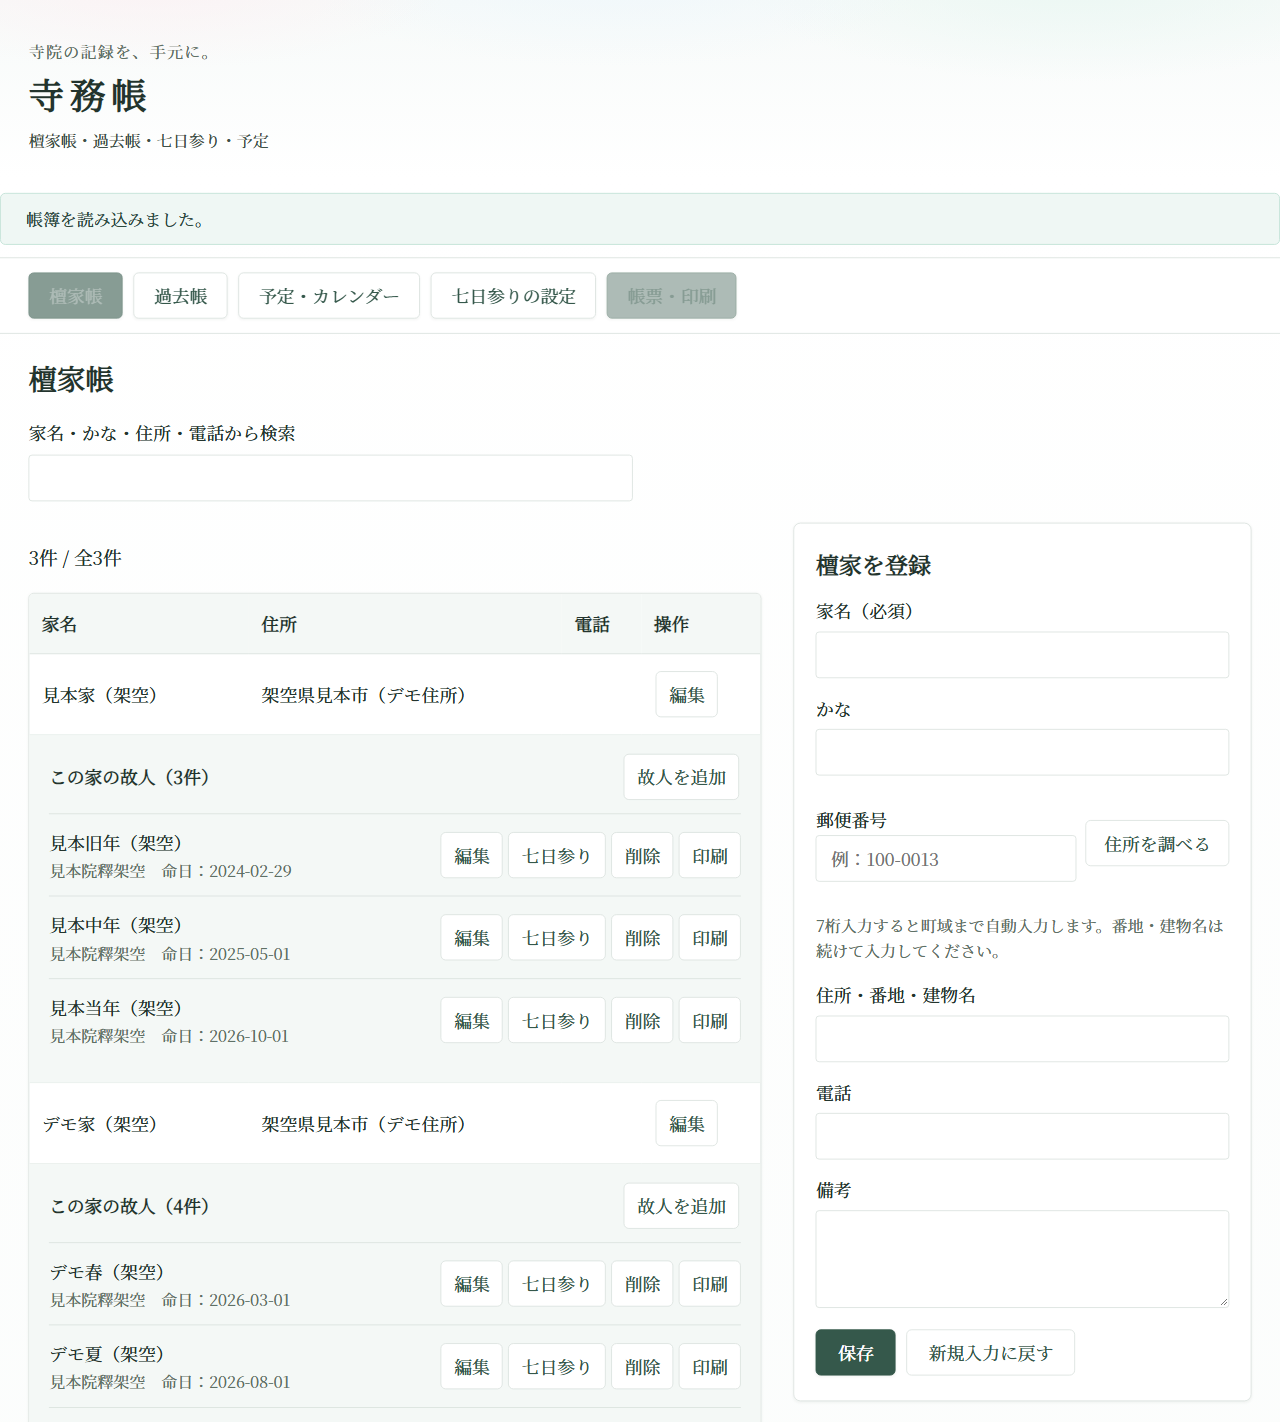
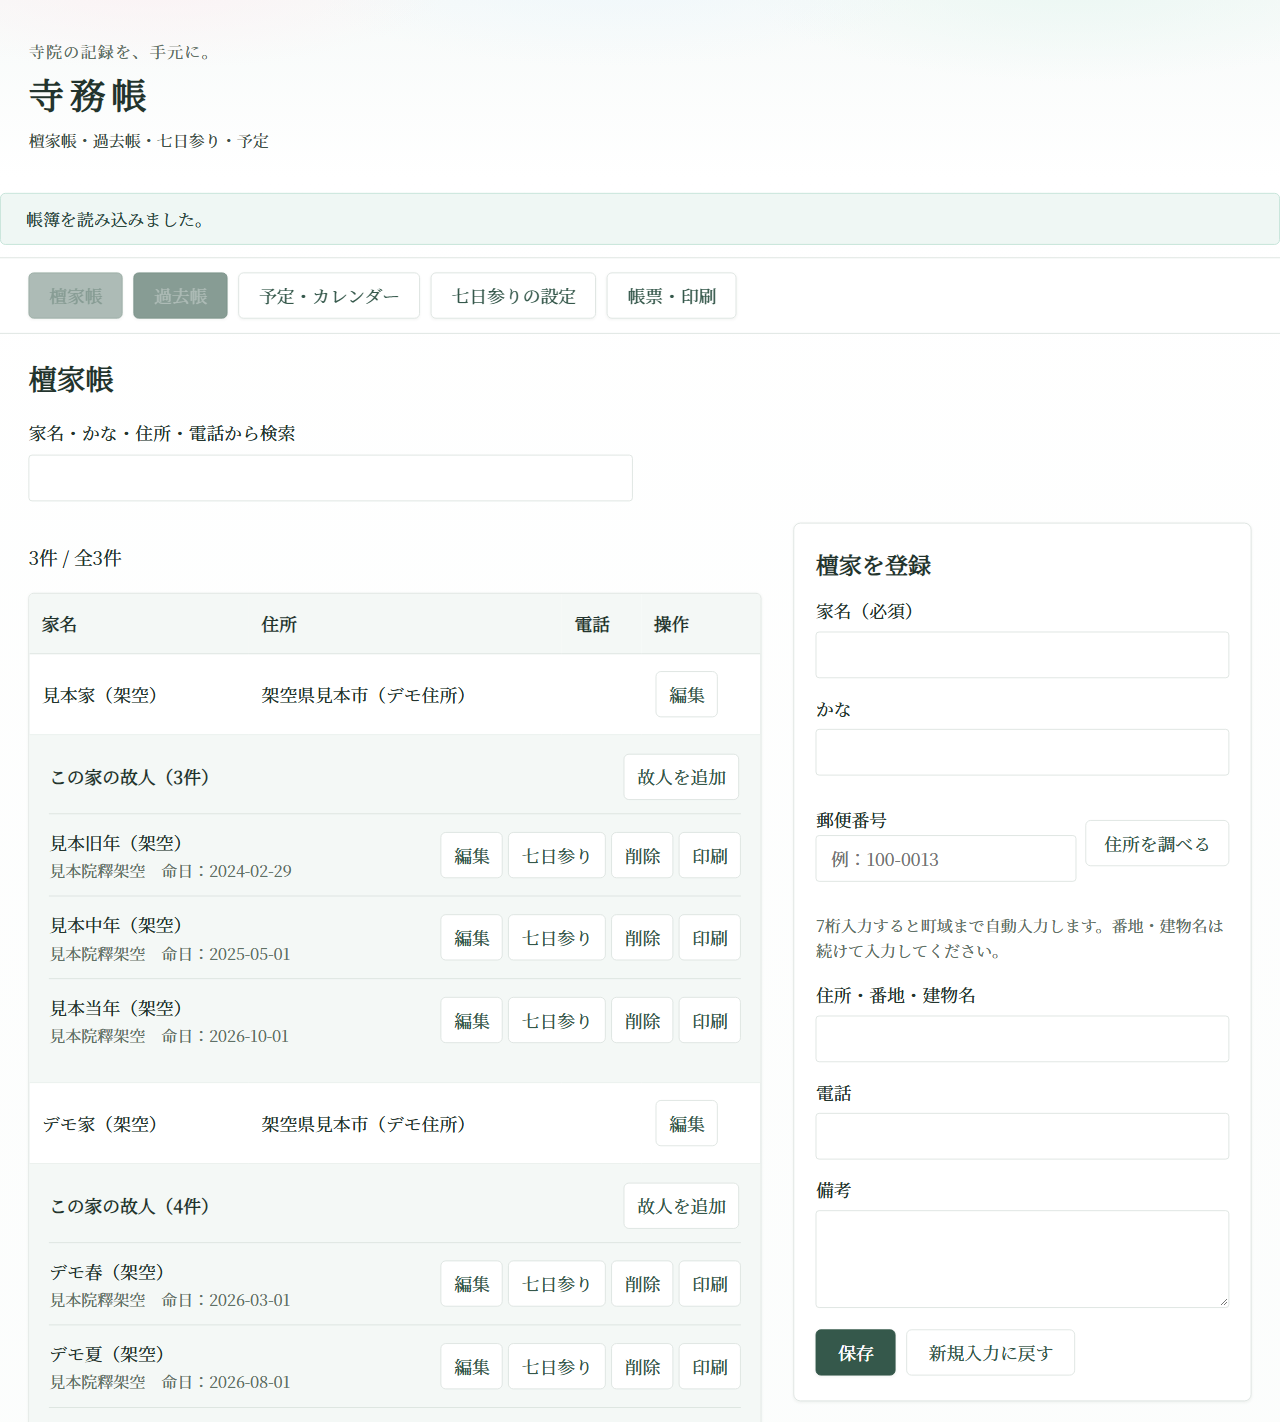
style: keep deceased actions on one row

Changed region(s): [[0.0, 0.1857, 0.1875, 0.2475], [0.4688, 0.1857, 0.5938, 0.2475]]

diff --git a/web/style.css b/web/style.css
@@ -683,6 +683,10 @@ footer {
 .register-list-body p { margin: 0; }
 .register-entry { border-left: 1px solid #dce3df; padding-left: 1mm; margin-left: 2mm; }
 
+.deceased-controls { flex-wrap: nowrap; gap: 6px; }
+.deceased-controls button { margin: 0; }
+@media (max-width: 680px) { .deceased-controls { flex-wrap: wrap; } }
+
 .memorial-body {
   font-size: 18px;
   line-height: 1.6;
